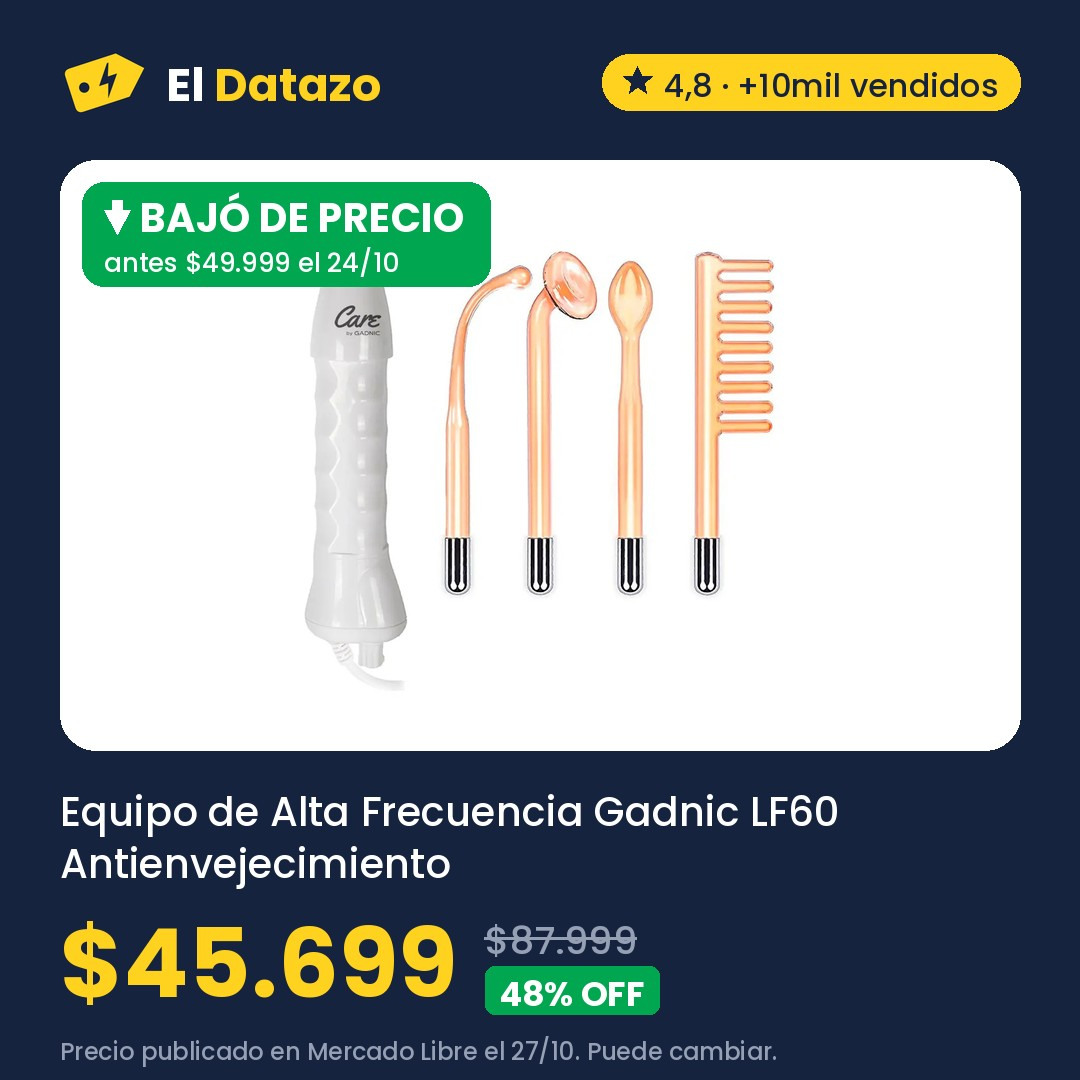
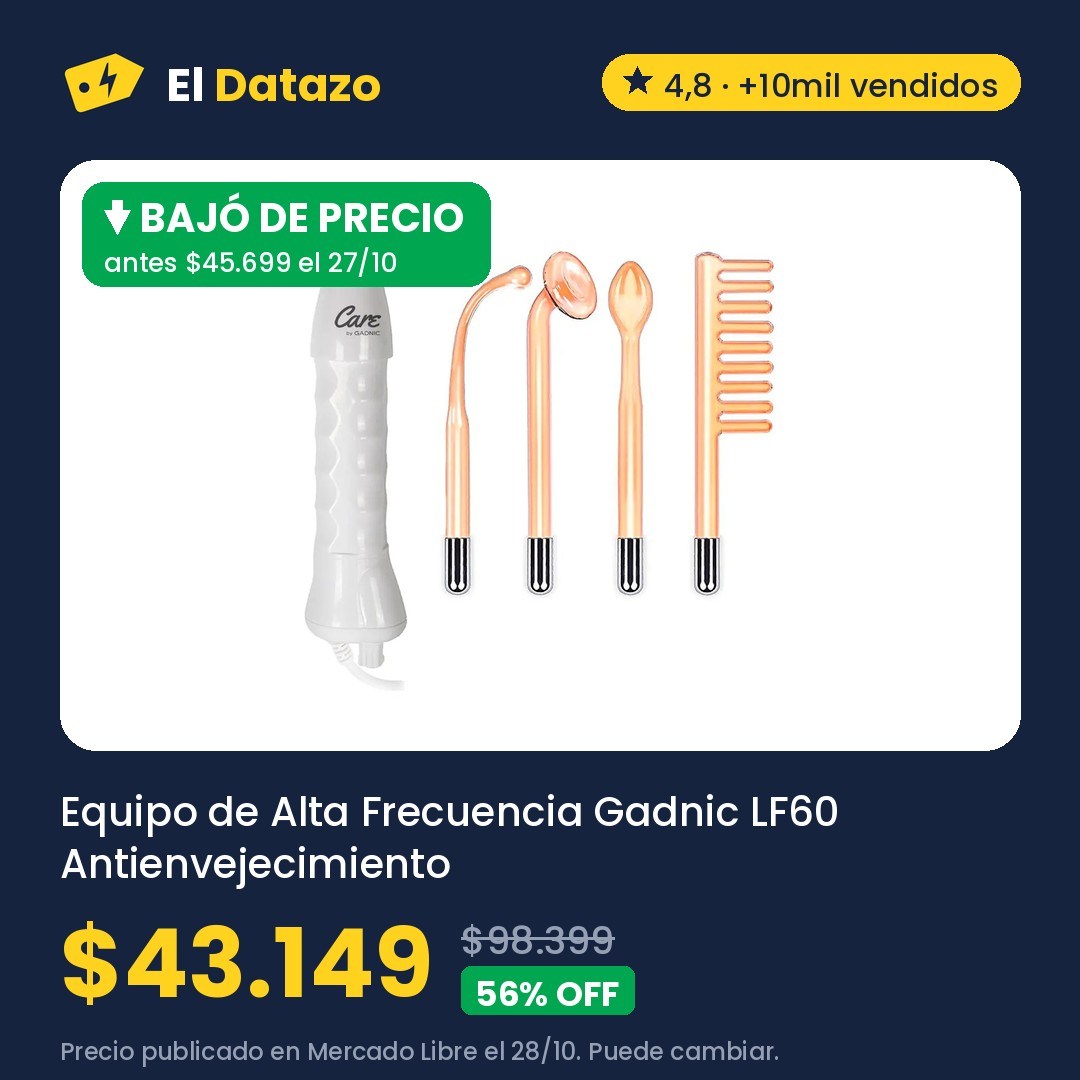
Ofertas 2026-10-28 19:32

Changed region(s): [[0.1528, 0.8556, 0.7028, 1.0], [0.3056, 0.2139, 0.3667, 0.275]]

diff --git a/index.html b/index.html
@@ -284,32 +284,32 @@ padding:3px 9px;border-radius:999px}
         tu precio.</p>
       </section>
       
-  <section class="hero" id="MLA22130330" aria-labelledby="hero-titulo">
-    <div class="hero-foto"><img src="img/MLA22130330.jpg" alt="Buclera de Pelo Gadnic B3000 Rizador 3 Tubos 25 mm 150W 180 210 C" width="1080" height="1080"></div>
+  <section class="hero" id="MLA26522167" aria-labelledby="hero-titulo">
+    <div class="hero-foto"><img src="img/MLA26522167.jpg" alt="Equipo de Alta Frecuencia Gadnic LF60 Antienvejecimiento Antiacné Reafirmante Facial 4 Electrodos" width="1080" height="1080"></div>
     <div class="etiqueta">
-      <p class="etiqueta-cabeza">El datazo de hoy <span class="sello">Quedan 7 días</span></p>
-      <h2 id="hero-titulo">Buclera de Pelo Gadnic B3000 Rizador 3 Tubos 25 mm 150W 180 210 C</h2>
-      <p class="hero-precio">$50.749</p>
-      <p class="hero-antes"><s>$108.499</s> <span class="off">53% OFF</span></p>
-      <p class="bajo pastilla"><b>⬇ Volvió</b> · Había terminado y volvió al mismo precio</p>
-      <p class="nota">Precio de hoy a las 11:30 en Mercado Libre. Puede cambiar.</p>
-      <a class="boton oscuro" href="https://meli.la/1HyqnAD" rel="sponsored noopener" target="_blank"
-         data-oferta="MLA22130330">Ver oferta en Mercado Libre</a>
-      <a class="compartir" href="https://wa.me/?text=Mir%C3%A1%20este%20datazo%3A%20Buclera%20de%20Pelo%20Gadnic%20B3000%20Rizador%203%20Tubos%2025%20mm%20150W%20180%20210%20C%20a%20%2450.749%20https%3A//eldatazo.com.ar/%23MLA22130330" target="_blank" rel="noopener" data-estilo="texto"><svg viewBox="0 0 24 24" width="16" height="16" aria-hidden="true"><path d="M4 20l1.3-4A8 8 0 1 1 8 18.7L4 20z" fill="none" stroke="currentColor" stroke-width="2" stroke-linejoin="round"/></svg> Compartir por WhatsApp</a>
+      <p class="etiqueta-cabeza">El datazo de hoy <span class="sello">Quedan 3 días</span></p>
+      <h2 id="hero-titulo">Equipo de Alta Frecuencia Gadnic LF60 Antienvejecimiento Antiacné Reafirmante Facial 4 Electrodos</h2>
+      <p class="hero-precio">$43.149</p>
+      <p class="hero-antes"><s>$98.399</s> <span class="off">56% OFF</span></p>
+      <p class="bajo pastilla"><b>⬇ Bajó</b> · Antes $45.699 el 27/10 · 6% menos</p>
+      <p class="nota">Precio de hoy a las 16:31 en Mercado Libre. Puede cambiar.</p>
+      <a class="boton oscuro" href="https://meli.la/1guS1ep" rel="sponsored noopener" target="_blank"
+         data-oferta="MLA26522167">Ver oferta en Mercado Libre</a>
+      <a class="compartir" href="https://wa.me/?text=Mir%C3%A1%20este%20datazo%3A%20Equipo%20de%20Alta%20Frecuencia%20Gadnic%20LF60%20Antienvejecimiento%20Antiacn%C3%A9%20Reafirmante%20Facial%204%20Electrodos%20a%20%2443.149%20https%3A//eldatazo.com.ar/%23MLA26522167" target="_blank" rel="noopener" data-estilo="texto"><svg viewBox="0 0 24 24" width="16" height="16" aria-hidden="true"><path d="M4 20l1.3-4A8 8 0 1 1 8 18.7L4 20z" fill="none" stroke="currentColor" stroke-width="2" stroke-linejoin="round"/></svg> Compartir por WhatsApp</a>
     </div>
   </section>
       
   <section class="franja-bajo" aria-labelledby="bajo-titulo">
     <h2 id="bajo-titulo">⬇ Bajaron de precio <span>16</span></h2>
     <ul class="franja-lista">
-        <li><a href="#MLA26522167"><img src="img/MLA26522167.jpg" alt="" loading="lazy">
-          <span><b>Equipo de Alta Frecuencia Gadnic LF60 Antienvejecimiento Antiacné Reafirmante Facial 4 Electrodos</b><span class="ahora">$45.699</span><s>$49.999</s> <span class="bajo">⬇ Bajó</span></span></a></li>
         <li><a href="#MLA19974075"><img src="img/MLA19974075.jpg" alt="" loading="lazy">
           <span><b>Bomba Pluvius Presurizadora 100 W Automática 2 Baños</b><span class="ahora">$62.006</span><s>$66.659</s> <span class="bajo">⬇ Bajó</span></span></a></li>
-        <li><a href="#MLA16048275"><img src="img/MLA16048275.jpg" alt="" loading="lazy">
-          <span><b>Eucerin Sun Oil Control Protector solar facial Toque Seco FPS 50 x 50 ml</b><span class="ahora">$35.318</span><s>$37.651</s> <span class="bajo">⬇ Bajó</span></span></a></li>
+        <li><a href="#MLA26522167"><img src="img/MLA26522167.jpg" alt="" loading="lazy">
+          <span><b>Equipo de Alta Frecuencia Gadnic LF60 Antienvejecimiento Antiacné Reafirmante Facial 4 Electrodos</b><span class="ahora">$43.149</span><s>$45.699</s> <span class="bajo">⬇ Bajó</span></span></a></li>
         <li><a href="#MLA22130330"><img src="img/MLA22130330.jpg" alt="" loading="lazy">
           <span><b>Buclera de Pelo Gadnic B3000 Rizador 3 Tubos 25 mm 150W 180 210 C</b><span class="ahora">$50.749</span> <span class="bajo">⬇ Volvió</span></span></a></li>
+        <li><a href="#MLA37255352"><img src="img/MLA37255352.jpg" alt="" loading="lazy">
+          <span><b>Afeitadora Eléctrica Hombre Shaver VGR V-325 Recargable Inalámbrica Negro y azul</b><span class="ahora">$41.123</span> <span class="bajo">⬇ Volvió</span></span></a></li>
         <li><a href="#MLA43803009"><img src="img/MLA43803009.jpg" alt="" loading="lazy">
           <span><b>Mochila Viaje Carry On Avion Porta Notebook Waggs Negro Lisa</b><span class="ahora">$46.799</span> <span class="bajo">⬇ Volvió</span></span></a></li>
         <li><a href="#MLA7890744"><img src="img/MLA7890744.jpg" alt="" loading="lazy">
@@ -354,6 +354,42 @@ padding:3px 9px;border-radius:999px}
       <p class="contador" aria-live="polite"><span data-cuenta>21</span> ofertas</p>
     </div>
     <div class="grilla activas">
+      <article class="tarjeta destacada" id="MLA22130330" data-rubro="MLA1246" data-off="53" data-pub="2026-10-28" data-quedan="7" data-precio="50749" data-bajo="1" data-texto="buclera de pelo gadnic b3000 rizador 3 tubos 25 mm 150w 180 210 c">
+        <div class="tarjeta-foto">
+          <img src="img/MLA22130330.jpg" alt="Buclera de Pelo Gadnic B3000 Rizador 3 Tubos 25 mm 150W 180 210 C" loading="lazy" width="1080" height="1080">
+        </div>
+        <div class="cuerpo">
+          <div class="fila"><span class="sello baja">⬇ Volvió</span><span class="sello">Quedan 7 días</span><span class="rubro">Belleza y Cuidado Personal</span></div>
+          <h3>Buclera de Pelo Gadnic B3000 Rizador 3 Tubos 25 mm 150W 180 210 C</h3>
+          <p class="precios "><span class="precio">$50.749</span><s class="antes">$108.499</s><span class="off">53% OFF</span></p>
+          <p class="bajo">Había terminado y volvió al mismo precio</p>
+          <p class="nota">Precio de hoy a las 16:31 en Mercado Libre. Puede cambiar.</p>
+          <div class="acciones">
+            <a class="boton" href="https://meli.la/1HyqnAD" rel="sponsored noopener" target="_blank"
+               data-oferta="MLA22130330">Ver oferta</a>
+            <a class="compartir" href="https://wa.me/?text=Mir%C3%A1%20este%20datazo%3A%20Buclera%20de%20Pelo%20Gadnic%20B3000%20Rizador%203%20Tubos%2025%20mm%20150W%20180%20210%20C%20a%20%2450.749%20https%3A//eldatazo.com.ar/%23MLA22130330" target="_blank" rel="noopener"
+               aria-label="Compartir por WhatsApp" title="Compartir por WhatsApp"><svg viewBox="0 0 24 24" width="16" height="16" aria-hidden="true"><path d="M4 20l1.3-4A8 8 0 1 1 8 18.7L4 20z" fill="none" stroke="currentColor" stroke-width="2" stroke-linejoin="round"/></svg></a>
+          </div>
+        </div>
+      </article>
+      <article class="tarjeta destacada" id="MLA37255352" data-rubro="MLA1246" data-off="48" data-pub="2026-10-28" data-quedan="7" data-precio="41123" data-bajo="1" data-texto="afeitadora eléctrica hombre shaver vgr v-325 recargable inalámbrica negro y azul">
+        <div class="tarjeta-foto">
+          <img src="img/MLA37255352.jpg" alt="Afeitadora Eléctrica Hombre Shaver VGR V-325 Recargable Inalámbrica Negro y azul" loading="lazy" width="1080" height="1080">
+        </div>
+        <div class="cuerpo">
+          <div class="fila"><span class="sello baja">⬇ Volvió</span><span class="sello">Quedan 7 días</span><span class="rubro">Belleza y Cuidado Personal</span></div>
+          <h3>Afeitadora Eléctrica Hombre Shaver VGR V-325 Recargable Inalámbrica Negro y azul</h3>
+          <p class="precios "><span class="precio">$41.123</span><s class="antes">$79.580</s><span class="off">48% OFF</span></p>
+          <p class="bajo">Había terminado y volvió al mismo precio</p>
+          <p class="nota">Precio de hoy a las 16:31 en Mercado Libre. Puede cambiar.</p>
+          <div class="acciones">
+            <a class="boton" href="https://meli.la/1KpJLVC" rel="sponsored noopener" target="_blank"
+               data-oferta="MLA37255352">Ver oferta</a>
+            <a class="compartir" href="https://wa.me/?text=Mir%C3%A1%20este%20datazo%3A%20Afeitadora%20El%C3%A9ctrica%20Hombre%20Shaver%20VGR%20V-325%20Recargable%20Inal%C3%A1mbrica%20Negro%20y%20azul%20a%20%2441.123%20https%3A//eldatazo.com.ar/%23MLA37255352" target="_blank" rel="noopener"
+               aria-label="Compartir por WhatsApp" title="Compartir por WhatsApp"><svg viewBox="0 0 24 24" width="16" height="16" aria-hidden="true"><path d="M4 20l1.3-4A8 8 0 1 1 8 18.7L4 20z" fill="none" stroke="currentColor" stroke-width="2" stroke-linejoin="round"/></svg></a>
+          </div>
+        </div>
+      </article>
       <article class="tarjeta destacada" id="MLA43803009" data-rubro="MLA1430" data-off="52" data-pub="2026-10-28" data-quedan="7" data-precio="46799" data-bajo="1" data-texto="mochila viaje carry on avion porta notebook waggs negro lisa">
         <div class="tarjeta-foto">
           <img src="img/MLA43803009.jpg" alt="Mochila Viaje Carry On Avion Porta Notebook Waggs Negro Lisa" loading="lazy" width="1080" height="1080">
@@ -363,7 +399,7 @@ padding:3px 9px;border-radius:999px}
           <h3>Mochila Viaje Carry On Avion Porta Notebook Waggs Negro Lisa</h3>
           <p class="precios "><span class="precio">$46.799</span><s class="antes">$96.758</s><span class="off">52% OFF</span></p>
           <p class="bajo">Había terminado y volvió al mismo precio</p>
-          <p class="nota">Precio de hoy a las 11:30 en Mercado Libre. Puede cambiar.</p>
+          <p class="nota">Precio de hoy a las 16:31 en Mercado Libre. Puede cambiar.</p>
           <div class="acciones">
             <a class="boton" href="https://meli.la/1Y9GX65" rel="sponsored noopener" target="_blank"
                data-oferta="MLA43803009">Ver oferta</a>
@@ -381,29 +417,11 @@ padding:3px 9px;border-radius:999px}
           <h3>Secador De Pelo Ultracomb Tourmaline Ion Pro Sc-4606 Negro 3 Temperaturas cool shot 1 Boquilla Negro / Rojo</h3>
           <p class="precios "><span class="precio">$42.309</span><s class="antes">$49.999</s><span class="off">15% OFF</span></p>
           <p class="bajo">Había terminado y volvió al mismo precio</p>
-          <p class="nota">Precio de hoy a las 11:30 en Mercado Libre. Puede cambiar.</p>
+          <p class="nota">Precio de hoy a las 16:31 en Mercado Libre. Puede cambiar.</p>
           <div class="acciones">
             <a class="boton" href="https://meli.la/1dCh9vj" rel="sponsored noopener" target="_blank"
                data-oferta="MLA7890744">Ver oferta</a>
             <a class="compartir" href="https://wa.me/?text=Mir%C3%A1%20este%20datazo%3A%20Secador%20De%20Pelo%20Ultracomb%20Tourmaline%20Ion%20Pro%20Sc-4606%20Negro%203%20Temperaturas%20cool%20shot%201%20Boquilla%20Negro%20/%20Rojo%20a%20%2442.309%20https%3A//eldatazo.com.ar/%23MLA7890744" target="_blank" rel="noopener"
-               aria-label="Compartir por WhatsApp" title="Compartir por WhatsApp"><svg viewBox="0 0 24 24" width="16" height="16" aria-hidden="true"><path d="M4 20l1.3-4A8 8 0 1 1 8 18.7L4 20z" fill="none" stroke="currentColor" stroke-width="2" stroke-linejoin="round"/></svg></a>
-          </div>
-        </div>
-      </article>
-      <article class="tarjeta destacada" id="MLA16048275" data-rubro="MLA1246" data-off="0" data-pub="2026-10-27" data-quedan="6" data-precio="35318" data-bajo="7" data-texto="eucerin sun oil control protector solar facial toque seco fps 50 x 50 ml">
-        <div class="tarjeta-foto">
-          <img src="img/MLA16048275.jpg" alt="Eucerin Sun Oil Control Protector solar facial Toque Seco FPS 50 x 50 ml" loading="lazy" width="1080" height="1080">
-        </div>
-        <div class="cuerpo">
-          <div class="fila"><span class="sello baja">⬇ Bajó</span><span class="sello">Quedan 6 días</span><span class="rubro">Belleza y Cuidado Personal</span></div>
-          <h3>Eucerin Sun Oil Control Protector solar facial Toque Seco FPS 50 x 50 ml</h3>
-          <p class="precios "><span class="precio">$35.318</span></p>
-          <p class="bajo">Antes $37.651 el 27/10 · 6% menos</p>
-          <p class="nota">Precio de hoy a las 11:30 en Mercado Libre. Puede cambiar.</p>
-          <div class="acciones">
-            <a class="boton" href="https://meli.la/2Zpeewk" rel="sponsored noopener" target="_blank"
-               data-oferta="MLA16048275">Ver oferta</a>
-            <a class="compartir" href="https://wa.me/?text=Mir%C3%A1%20este%20datazo%3A%20Eucerin%20Sun%20Oil%20Control%20Protector%20solar%20facial%20Toque%20Seco%20FPS%2050%20x%2050%20ml%20a%20%2435.318%20https%3A//eldatazo.com.ar/%23MLA16048275" target="_blank" rel="noopener"
                aria-label="Compartir por WhatsApp" title="Compartir por WhatsApp"><svg viewBox="0 0 24 24" width="16" height="16" aria-hidden="true"><path d="M4 20l1.3-4A8 8 0 1 1 8 18.7L4 20z" fill="none" stroke="currentColor" stroke-width="2" stroke-linejoin="round"/></svg></a>
           </div>
         </div>
@@ -417,7 +435,7 @@ padding:3px 9px;border-radius:999px}
           <h3>Old Prince Premium gato adulto 7.5 kg</h3>
           <p class="precios "><span class="precio">$40.100</span></p>
           <p class="bajo">Había terminado y volvió al mismo precio</p>
-          <p class="nota">Precio del 27/10 en Mercado Libre, revisado hoy a las 11:30. Puede cambiar.</p>
+          <p class="nota">Precio del 27/10 en Mercado Libre, revisado hoy a las 16:31. Puede cambiar.</p>
           <div class="acciones">
             <a class="boton" href="https://meli.la/2zmmmFA" rel="sponsored noopener" target="_blank"
                data-oferta="MLA25363194">Ver oferta</a>
@@ -435,7 +453,7 @@ padding:3px 9px;border-radius:999px}
           <h3>Calculadora Cientifica Casio Fx 570la Cw Classwiz Negra</h3>
           <p class="precios "><span class="precio">$59.174</span></p>
           
-          <p class="nota">Precio del 26/10 en Mercado Libre, revisado hoy a las 11:30. Puede cambiar.</p>
+          <p class="nota">Precio del 26/10 en Mercado Libre, revisado hoy a las 16:31. Puede cambiar.</p>
           <div class="acciones">
             <a class="boton" href="https://meli.la/2iggYJ9" rel="sponsored noopener" target="_blank"
                data-oferta="MLA22724798">Ver oferta</a>
@@ -453,7 +471,7 @@ padding:3px 9px;border-radius:999px}
           <h3>Colchón Inflable Doble Klimber + Inflador + 2 Almohadas</h3>
           <p class="precios "><span class="precio">$45.777</span><s class="antes">$69.499</s><span class="off">34% OFF</span></p>
           
-          <p class="nota">Precio del 26/10 en Mercado Libre, revisado hoy a las 11:30. Puede cambiar.</p>
+          <p class="nota">Precio del 26/10 en Mercado Libre, revisado hoy a las 16:31. Puede cambiar.</p>
           <div class="acciones">
             <a class="boton" href="https://meli.la/19eMhmv" rel="sponsored noopener" target="_blank"
                data-oferta="MLA22764635">Ver oferta</a>
@@ -471,7 +489,7 @@ padding:3px 9px;border-radius:999px}
           <h3>Rotuladora Portátil Niimbot Etiquetadora Manual Impresora Color Blanco D110</h3>
           <p class="precios "><span class="precio">$41.040</span><s class="antes">$58.900</s><span class="off">30% OFF</span></p>
           
-          <p class="nota">Precio del 26/10 en Mercado Libre, revisado hoy a las 11:30. Puede cambiar.</p>
+          <p class="nota">Precio del 26/10 en Mercado Libre, revisado hoy a las 16:31. Puede cambiar.</p>
           <div class="acciones">
             <a class="boton" href="https://meli.la/1czSFp6" rel="sponsored noopener" target="_blank"
                data-oferta="MLA45260672">Ver oferta</a>
@@ -489,7 +507,7 @@ padding:3px 9px;border-radius:999px}
           <h3>Bomba Pluvius Presurizadora 100 W Automática 2 Baños</h3>
           <p class="precios "><span class="precio">$62.006</span><s class="antes">$81.899</s><span class="off">24% OFF</span></p>
           <p class="bajo">Antes $66.659 el 24/10 · 7% menos</p>
-          <p class="nota">Precio del 27/10 en Mercado Libre, revisado hoy a las 11:30. Puede cambiar.</p>
+          <p class="nota">Precio del 27/10 en Mercado Libre, revisado hoy a las 16:31. Puede cambiar.</p>
           <div class="acciones">
             <a class="boton" href="https://meli.la/2a5DkY2" rel="sponsored noopener" target="_blank"
                data-oferta="MLA19974075">Ver oferta</a>
@@ -507,7 +525,7 @@ padding:3px 9px;border-radius:999px}
           <h3>Equipo Pistola Pintar Eléctrica Latex 450w TOTAL Acabado Profesional sin Esfuerzo</h3>
           <p class="precios "><span class="precio">$56.340</span><s class="antes">$105.990</s><span class="off">47% OFF</span></p>
           
-          <p class="nota">Precio del 24/10 en Mercado Libre, revisado hoy a las 11:30. Puede cambiar.</p>
+          <p class="nota">Precio del 24/10 en Mercado Libre, revisado hoy a las 16:31. Puede cambiar.</p>
           <div class="acciones">
             <a class="boton" href="https://meli.la/2TeggF7" rel="sponsored noopener" target="_blank"
                data-oferta="MLA22620660">Ver oferta</a>
@@ -525,7 +543,7 @@ padding:3px 9px;border-radius:999px}
           <h3>Pintura Latex Ingenia X 20 L Interior Exterior Cubritiva - Blanco</h3>
           <p class="precios "><span class="precio">$32.999</span><s class="antes">$69.999</s><span class="off">53% OFF</span></p>
           
-          <p class="nota">Precio del 24/10 en Mercado Libre, revisado hoy a las 11:30. Puede cambiar.</p>
+          <p class="nota">Precio del 24/10 en Mercado Libre, revisado hoy a las 16:31. Puede cambiar.</p>
           <div class="acciones">
             <a class="boton" href="https://meli.la/2Gbd1ds" rel="sponsored noopener" target="_blank"
                data-oferta="MLA23521180">Ver oferta</a>
@@ -543,7 +561,7 @@ padding:3px 9px;border-radius:999px}
           <h3>Masajeador Cervical Eléctrico Portatil Inalambrico Batería Recargable Usb Femmto Relajación Cuello Espalda Lumbar</h3>
           <p class="precios "><span class="precio">$70.699</span><s class="antes">$100.000</s><span class="off">29% OFF</span></p>
           
-          <p class="nota">Precio del 22/10 en Mercado Libre, revisado hoy a las 11:30. Puede cambiar.</p>
+          <p class="nota">Precio del 22/10 en Mercado Libre, revisado hoy a las 16:31. Puede cambiar.</p>
           <div class="acciones">
             <a class="boton" href="https://meli.la/2DfwhAa" rel="sponsored noopener" target="_blank"
                data-oferta="MLA24127896">Ver oferta</a>
@@ -561,29 +579,11 @@ padding:3px 9px;border-radius:999px}
           <h3>Taladro Atornillador Inalámbrico Branx Bateria 20v Litio Color Accesorios Maletin HyperBolt20</h3>
           <p class="precios "><span class="precio">$58.999</span><s class="antes">$120.000</s><span class="off">51% OFF</span></p>
           
-          <p class="nota">Precio del 24/10 en Mercado Libre, revisado hoy a las 11:30. Puede cambiar.</p>
+          <p class="nota">Precio del 24/10 en Mercado Libre, revisado hoy a las 16:31. Puede cambiar.</p>
           <div class="acciones">
             <a class="boton" href="https://meli.la/2xk9W87" rel="sponsored noopener" target="_blank"
                data-oferta="MLA24983473">Ver oferta</a>
             <a class="compartir" href="https://wa.me/?text=Mir%C3%A1%20este%20datazo%3A%20Taladro%20Atornillador%20Inal%C3%A1mbrico%20Branx%20Bateria%2020v%20Litio%20Color%20Accesorios%20Maletin%20HyperBolt20%20a%20%2458.999%20https%3A//eldatazo.com.ar/%23MLA24983473" target="_blank" rel="noopener"
-               aria-label="Compartir por WhatsApp" title="Compartir por WhatsApp"><svg viewBox="0 0 24 24" width="16" height="16" aria-hidden="true"><path d="M4 20l1.3-4A8 8 0 1 1 8 18.7L4 20z" fill="none" stroke="currentColor" stroke-width="2" stroke-linejoin="round"/></svg></a>
-          </div>
-        </div>
-      </article>
-      <article class="tarjeta destacada" id="MLA26522167" data-rubro="MLA1246" data-off="48" data-pub="2026-10-24" data-quedan="3" data-precio="45699" data-bajo="10" data-texto="equipo de alta frecuencia gadnic lf60 antienvejecimiento antiacné reafirmante facial 4 electrodos">
-        <div class="tarjeta-foto">
-          <img src="img/MLA26522167.jpg" alt="Equipo de Alta Frecuencia Gadnic LF60 Antienvejecimiento Antiacné Reafirmante Facial 4 Electrodos" loading="lazy" width="1080" height="1080">
-        </div>
-        <div class="cuerpo">
-          <div class="fila"><span class="sello baja">⬇ Bajó</span><span class="sello">Quedan 3 días</span><span class="rubro">Belleza y Cuidado Personal</span></div>
-          <h3>Equipo de Alta Frecuencia Gadnic LF60 Antienvejecimiento Antiacné Reafirmante Facial 4 Electrodos</h3>
-          <p class="precios "><span class="precio">$45.699</span><s class="antes">$87.999</s><span class="off">48% OFF</span></p>
-          <p class="bajo">Antes $49.999 el 24/10 · 9% menos</p>
-          <p class="nota">Precio del 27/10 en Mercado Libre, revisado hoy a las 11:30. Puede cambiar.</p>
-          <div class="acciones">
-            <a class="boton" href="https://meli.la/1guS1ep" rel="sponsored noopener" target="_blank"
-               data-oferta="MLA26522167">Ver oferta</a>
-            <a class="compartir" href="https://wa.me/?text=Mir%C3%A1%20este%20datazo%3A%20Equipo%20de%20Alta%20Frecuencia%20Gadnic%20LF60%20Antienvejecimiento%20Antiacn%C3%A9%20Reafirmante%20Facial%204%20Electrodos%20a%20%2445.699%20https%3A//eldatazo.com.ar/%23MLA26522167" target="_blank" rel="noopener"
                aria-label="Compartir por WhatsApp" title="Compartir por WhatsApp"><svg viewBox="0 0 24 24" width="16" height="16" aria-hidden="true"><path d="M4 20l1.3-4A8 8 0 1 1 8 18.7L4 20z" fill="none" stroke="currentColor" stroke-width="2" stroke-linejoin="round"/></svg></a>
           </div>
         </div>
@@ -597,7 +597,7 @@ padding:3px 9px;border-radius:999px}
           <h3>Bomba Presurizadora Elevadora 2 Baños Presion Kommberg 120w KB-EP120</h3>
           <p class="precios "><span class="precio">$60.021</span><s class="antes">$79.890</s><span class="off">25% OFF</span></p>
           
-          <p class="nota">Precio del 24/10 en Mercado Libre, revisado hoy a las 11:30. Puede cambiar.</p>
+          <p class="nota">Precio del 24/10 en Mercado Libre, revisado hoy a las 16:31. Puede cambiar.</p>
           <div class="acciones">
             <a class="boton" href="https://meli.la/2eMw9XD" rel="sponsored noopener" target="_blank"
                data-oferta="MLA28254149">Ver oferta</a>
@@ -615,7 +615,7 @@ padding:3px 9px;border-radius:999px}
           <h3>Máquina De Cortar Pelo Para Perros Gadnic CP170 Silenciosa 2000 mAh 4 Peines Acero Inoxidable Autonomía 3,5Hr Carga Rápida</h3>
           <p class="precios "><span class="precio">$68.999</span><s class="antes">$118.749</s><span class="off">42% OFF</span></p>
           
-          <p class="nota">Precio del 24/10 en Mercado Libre, revisado hoy a las 11:30. Puede cambiar.</p>
+          <p class="nota">Precio del 24/10 en Mercado Libre, revisado hoy a las 16:31. Puede cambiar.</p>
           <div class="acciones">
             <a class="boton" href="https://meli.la/1eArodH" rel="sponsored noopener" target="_blank"
                data-oferta="MLA28329206">Ver oferta</a>
@@ -633,7 +633,7 @@ padding:3px 9px;border-radius:999px}
           <h3>Compresor De Aire Portátil Gadnic Inflador Neumáticos 50W Presión 150 PSI Caudal 17 L/min Pantalla Dual LCD Corte Automático Linterna LED Accesorios Para Auto Moto Bicicleta Pelotas</h3>
           <p class="precios "><span class="precio">$57.449</span><s class="antes">$105.599</s><span class="off">46% OFF</span></p>
           
-          <p class="nota">Precio del 24/10 en Mercado Libre, revisado hoy a las 11:30. Puede cambiar.</p>
+          <p class="nota">Precio del 24/10 en Mercado Libre, revisado hoy a las 16:31. Puede cambiar.</p>
           <div class="acciones">
             <a class="boton" href="https://meli.la/2ck1cFk" rel="sponsored noopener" target="_blank"
                data-oferta="MLA43472281">Ver oferta</a>
@@ -651,7 +651,7 @@ padding:3px 9px;border-radius:999px}
           <h3>Plastificadora Laminadora A4 Profesional Frio Calor 230 Mm</h3>
           <p class="precios "><span class="precio">$51.465</span><s class="antes">$79.999</s><span class="off">36% OFF</span></p>
           
-          <p class="nota">Precio del 24/10 en Mercado Libre, revisado hoy a las 11:30. Puede cambiar.</p>
+          <p class="nota">Precio del 24/10 en Mercado Libre, revisado hoy a las 16:31. Puede cambiar.</p>
           <div class="acciones">
             <a class="boton" href="https://meli.la/14bVQFh" rel="sponsored noopener" target="_blank"
                data-oferta="MLA43829530">Ver oferta</a>
@@ -669,7 +669,7 @@ padding:3px 9px;border-radius:999px}
           <h3>Cable Tipo Taller 2x2.5 Mm 50mts Cubierta Negro</h3>
           <p class="precios "><span class="precio">$47.219</span></p>
           
-          <p class="nota">Precio de hoy a las 11:30 en Mercado Libre. Puede cambiar.</p>
+          <p class="nota">Precio de hoy a las 16:31 en Mercado Libre. Puede cambiar.</p>
           <div class="acciones">
             <a class="boton" href="https://meli.la/1aC3rjr" rel="sponsored noopener" target="_blank"
                data-oferta="MLA50107405">Ver oferta</a>
@@ -687,7 +687,7 @@ padding:3px 9px;border-radius:999px}
           <h3>Bloques Magnéticos Para Armar 100 Piezas Construcción Tiles 100</h3>
           <p class="precios "><span class="precio">$63.832</span><s class="antes">$83.990</s><span class="off">24% OFF</span></p>
           
-          <p class="nota">Precio del 24/10 en Mercado Libre, revisado hoy a las 11:30. Puede cambiar.</p>
+          <p class="nota">Precio del 24/10 en Mercado Libre, revisado hoy a las 16:31. Puede cambiar.</p>
           <div class="acciones">
             <a class="boton" href="https://meli.la/2Hc8YtJ" rel="sponsored noopener" target="_blank"
                data-oferta="MLA63335049">Ver oferta</a>
@@ -705,7 +705,7 @@ padding:3px 9px;border-radius:999px}
           <h3>Juego Cubiertas Moto 110 2.50-17+2.75-14 + Camaras</h3>
           <p class="precios "><span class="precio">$60.776</span><s class="antes">$82.983</s><span class="off">27% OFF</span></p>
           
-          <p class="nota">Precio del 24/10 en Mercado Libre, revisado hoy a las 11:30. Puede cambiar.</p>
+          <p class="nota">Precio del 24/10 en Mercado Libre, revisado hoy a las 16:31. Puede cambiar.</p>
           <div class="acciones">
             <a class="boton" href="https://meli.la/1rzdJj3" rel="sponsored noopener" target="_blank"
                data-oferta="MLA63532450">Ver oferta</a>
@@ -723,7 +723,7 @@ padding:3px 9px;border-radius:999px}
           <h3>Figuritas Panini X 25 Sobres World Cup 2026 Mundial 2026</h3>
           <p class="precios "><span class="precio">$50.000</span></p>
           
-          <p class="nota">Precio del 24/10 en Mercado Libre, revisado hoy a las 11:30. Puede cambiar.</p>
+          <p class="nota">Precio del 24/10 en Mercado Libre, revisado hoy a las 16:31. Puede cambiar.</p>
           <div class="acciones">
             <a class="boton" href="https://meli.la/1qNpAcw" rel="sponsored noopener" target="_blank"
                data-oferta="MLA69121337">Ver oferta</a>
@@ -1147,6 +1147,17 @@ padding:3px 9px;border-radius:999px}
     <div class="envoltura">
       <details class="terminadas"><summary>Terminadas · ofertas que ya no están vigentes (17)</summary>
 <div class="grilla">
+      <article class="tarjeta terminada" id="MLA16048275">
+        <div class="tarjeta-foto">
+          <img src="img/MLA16048275_terminada.jpg" alt="Eucerin Sun Oil Control Protector solar facial Toque Seco FPS 50 x 50 ml" loading="lazy" width="1080" height="1080">
+        </div>
+        <div class="cuerpo">
+          <h3>Eucerin Sun Oil Control Protector solar facial Toque Seco FPS 50 x 50 ml</h3>
+          <p class="nota">Terminó el 28/10. El link sigue abierto: mirá el precio de hoy.</p>
+          <a class="boton suave" href="https://meli.la/2Zpeewk" rel="sponsored noopener" target="_blank"
+             data-oferta="MLA16048275">Ver precio de hoy</a>
+        </div>
+      </article>
       <article class="tarjeta terminada" id="MLA19576694">
         <div class="tarjeta-foto">
           <img src="img/MLA19576694_terminada.jpg" alt="Bomba Periferica Elevadora Agua Vasser 1/2 Hp 20mts caudal 30 l/m" loading="lazy" width="1080" height="1080">
@@ -1268,17 +1279,6 @@ padding:3px 9px;border-radius:999px}
              data-oferta="MLA32162099">Ver precio de hoy</a>
         </div>
       </article>
-      <article class="tarjeta terminada" id="MLA37255352">
-        <div class="tarjeta-foto">
-          <img src="img/MLA37255352_terminada.jpg" alt="Afeitadora Eléctrica Hombre Shaver VGR V-325 Recargable Inalámbrica Negro y azul" loading="lazy" width="1080" height="1080">
-        </div>
-        <div class="cuerpo">
-          <h3>Afeitadora Eléctrica Hombre Shaver VGR V-325 Recargable Inalámbrica Negro y azul</h3>
-          <p class="nota">Terminó el 27/10. El link sigue abierto: mirá el precio de hoy.</p>
-          <a class="boton suave" href="https://meli.la/1KpJLVC" rel="sponsored noopener" target="_blank"
-             data-oferta="MLA37255352">Ver precio de hoy</a>
-        </div>
-      </article>
       <article class="tarjeta terminada" id="MLA47200126">
         <div class="tarjeta-foto">
           <img src="img/MLA47200126_terminada.jpg" alt="Extractor De Leche Eléctrico Mawe By Gadnic RH-289 150 ml 9 Niveles Pantalla LED Batería Recargable 1200mAh" loading="lazy" width="1080" height="1080">
@@ -1342,7 +1342,7 @@ padding:3px 9px;border-radius:999px}
       <nav class="redes" aria-label="Redes de El Datazo"><a class="red" href="https://www.instagram.com/eldatazo.arg/" target="_blank" rel="noopener"><svg viewBox="0 0 24 24" width="18" height="18" aria-hidden="true"><rect x="3" y="3" width="18" height="18" rx="5" fill="none" stroke="currentColor" stroke-width="2"/><circle cx="12" cy="12" r="4" fill="none" stroke="currentColor" stroke-width="2"/><circle cx="17.5" cy="6.5" r="1.3" fill="currentColor"/></svg> Instagram</a><a class="red" href="https://www.facebook.com/profile.php?id=61595441168911" target="_blank" rel="noopener"><svg viewBox="0 0 24 24" width="18" height="18" aria-hidden="true"><path d="M14 8h3V4h-3a4 4 0 0 0-4 4v2H7v4h3v8h4v-8h3l1-4h-4V8z" fill="currentColor"/></svg> Facebook</a><a class="red" href="https://t.me/eldatazo_ofertas" target="_blank" rel="noopener"><svg viewBox="0 0 24 24" width="18" height="18" aria-hidden="true"><path d="M21 4 3 11l5 2 2 6 3-4 5 4 3-15zM9 13l9-6-7 8" fill="none" stroke="currentColor" stroke-width="1.8" stroke-linejoin="round"/></svg> Telegram</a></nav>
       <p>Los links son de afiliado de Mercado Libre: si comprás, El Datazo puede recibir una comisión, sin que cambie
       tu precio. Los precios son los publicados en Mercado Libre el día indicado y pueden cambiar.</p>
-      <p>Actualizado el 28/10/2026 11:31 (hora argentina) · <a href="privacidad/">Privacidad</a></p>
+      <p>Actualizado el 28/10/2026 16:32 (hora argentina) · <a href="privacidad/">Privacidad</a></p>
     </div>
   </footer>
   
